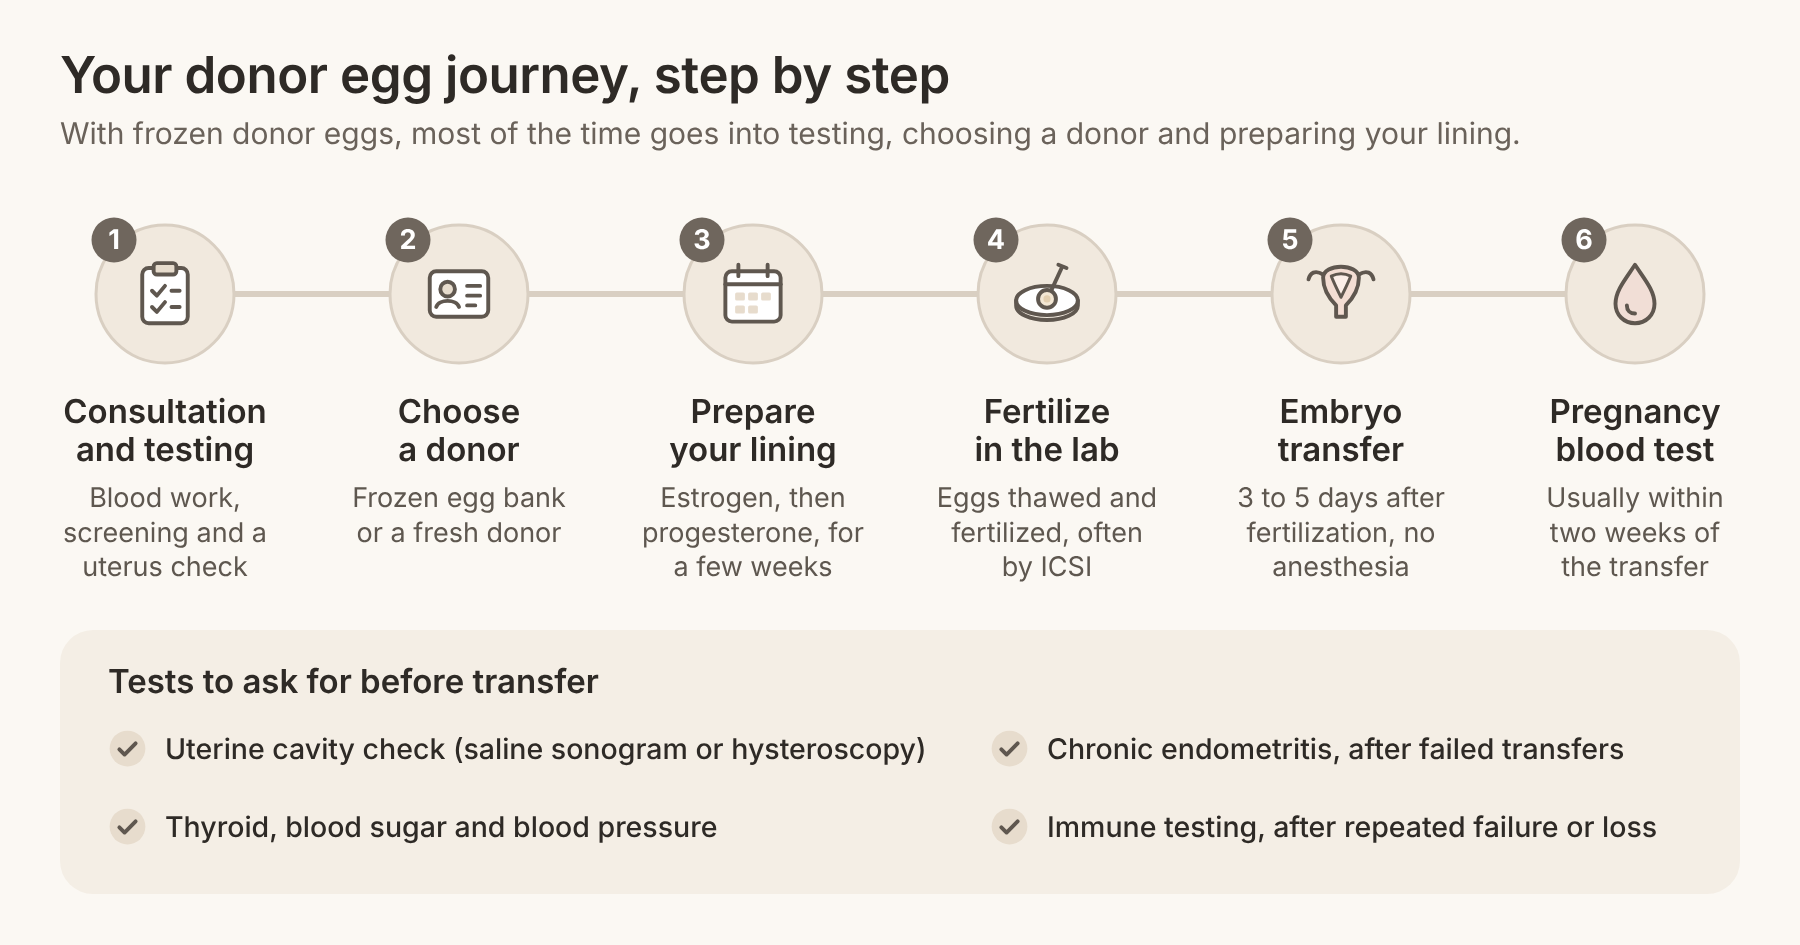
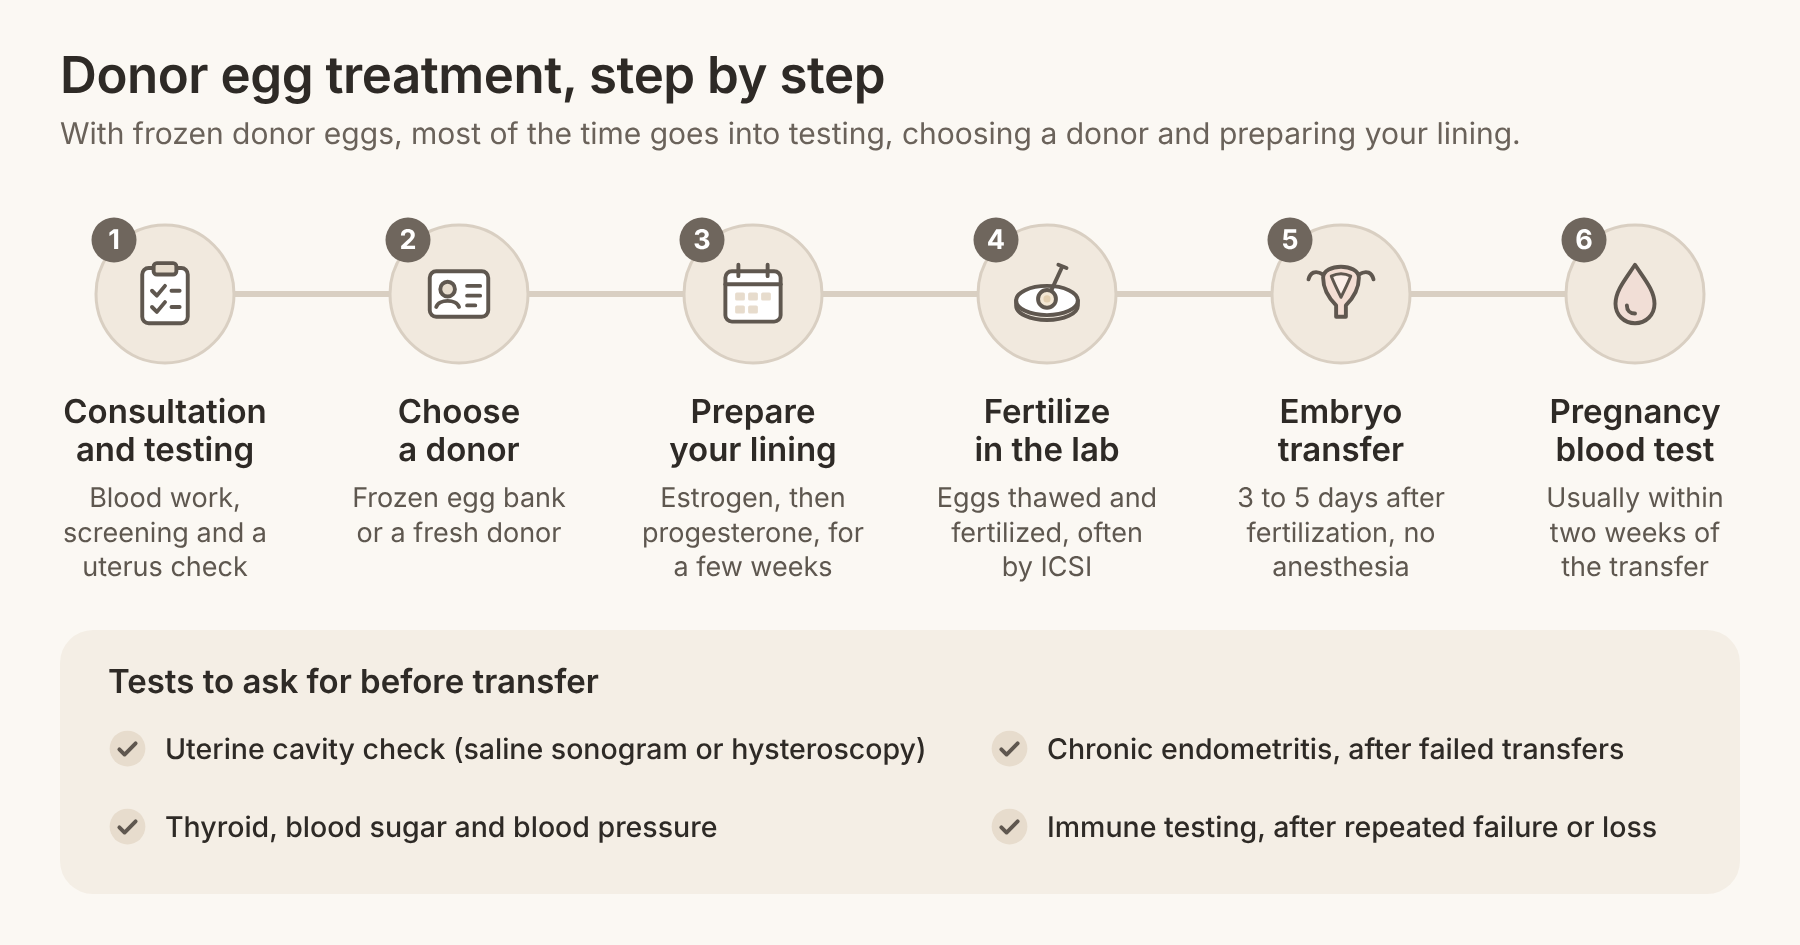
Image text follows the post rules (banned words, numbers from the post); integrity checks for images
Claude-Session: https://claude.ai/code/session_01GCoYMtcmD4ny8iCpaBnXJB

Changed region(s): [[0.0311, 0.0614, 0.5289, 0.1228]]

diff --git a/scripts/render_image.js b/scripts/render_image.js
@@ -72,6 +72,8 @@ let html = fs.readFileSync(input, "utf8")
   if (report.minSize < 17) report.problems.push(`smallest label is ${report.minSize}px; use 17px or more so it stays readable on the blog`);
   const out = { ok: report.problems.length === 0, output, width: Math.round(W * scale), height: Math.round(H * scale),
     bytes: fs.statSync(output).size, labels: report.labels, min_font_px: report.minSize, problems: report.problems };
+  out.md5 = require("crypto").createHash("md5").update(fs.readFileSync(output)).digest("hex");
+  fs.writeFileSync(output.replace(/\.png$/, "") + ".report.json", JSON.stringify(out, null, 1) + "\n");
   console.log(JSON.stringify(out, null, 1));
   process.exit(out.ok ? 0 : 1);
 })();

diff --git a/runs/2026-10-16-aurea/img/image1.html b/runs/2026-10-16-aurea/img/image1.html
@@ -31,7 +31,7 @@
   <circle cx="276" cy="508" r="28" fill="#FBF8F3" stroke="#D9CFC2" stroke-width="1.5"/>
   <use href="#icon-tank" x="256" y="488" width="40" height="40"/>
   <text class="label-sub" x="314" y="503">Liquid nitrogen</text>
-  <text class="label-sub" x="314" y="525">at −196 °C</text>
+  <text class="label-sub" x="314" y="525">storage tank</text>
   <circle cx="474" cy="508" r="28" fill="#FBF8F3" stroke="#D9CFC2" stroke-width="1.5"/>
   <use href="#icon-thaw" x="454" y="488" width="40" height="40"/>
   <text class="label-sub" x="512" y="503">Thawed</text>

diff --git a/runs/2026-10-16-rfc/img/image2.html b/runs/2026-10-16-rfc/img/image2.html
@@ -4,7 +4,7 @@
 {{COMPONENTS}}
 <svg class="canvas" viewBox="0 0 1200 630" xmlns="http://www.w3.org/2000/svg">
   <rect class="bg" width="1200" height="630"/>
-  <text class="title" x="40" y="62">Your donor egg journey, step by step</text>
+  <text class="title" x="40" y="62">Donor egg treatment, step by step</text>
   <text class="subtitle" x="40" y="96">With frozen donor eggs, most of the time goes into testing, choosing a donor and preparing your lining.</text>
 
   <!-- timeline line -->

diff --git a/scripts/check_post.py b/scripts/check_post.py
@@ -6,6 +6,8 @@ Usage: python3 scripts/check_post.py runs/<run>
 Writes runs/<run>/checks.json (the self-audit) and prints a summary.
 Hard failures block publishing. Warnings are reported but do not block.
 """
+import hashlib
+import html
 import json
 import re
 import sys
@@ -170,6 +172,31 @@ def main():
     long_paras = [p[:50] for p in body.split("\n\n") if p.strip() and not p.strip().startswith(("|", "-", "#", "[["))
                   and not re.match(r"\d+[.)]\s", p.strip()) and len(re.findall(r"[.!?](\s|$)", p)) > 5]
     check("paragraphs are 5 sentences or fewer", not long_paras, "; ".join(long_paras), hard=False)
+
+    # ---------- what is inside the images ----------
+    # Images are labelled illustrations rendered from runs/<run>/img/imageN.html (rules/images.md).
+    # Wix's file hash is the md5 of the stored bytes, so it proves Wix holds the exact picture that was reviewed.
+    body_plain = strip_md(body)
+    for k in ("IMAGE1", "IMAGE2"):
+        im = imgs.get(k, {})
+        src, png = run / im.get("source", "-"), run / im.get("file", "-")
+        if not (src.is_file() and png.is_file()):
+            check(f"{k}: source html and rendered png in the run folder", False, f"{im.get('source')} / {im.get('file')}")
+            continue
+        md5 = hashlib.md5(png.read_bytes()).hexdigest()
+        check(f"{k}: Wix stored exactly the reviewed image (md5 = Wix hash)",
+              md5 == im.get("md5") == im.get("wix_hash"), f"file {md5}, front matter {im.get('md5')}, Wix {im.get('wix_hash')}")
+        rep = load_json(png.with_suffix(".report.json"), {})
+        check(f"{k}: label check passed when rendered (no overlaps, nothing cut off)",
+              rep.get("ok") is True and rep.get("md5") == md5, "; ".join(rep.get("problems", [])) or "no report for this file")
+        texts = " ".join(html.unescape(re.sub(r"<[^>]+>", "", t))
+                         for t in re.findall(r"<text\b[^>]*>(.*?)</text>", src.read_text(encoding="utf-8"), re.S))
+        lowt = " " + texts.lower() + " "
+        bad = sorted({w for w in banned if re.search(r"(?<![a-z])" + re.escape(w.lower()) + r"(?![a-z])", lowt)})
+        check(f"{k}: no banned words in the image", not bad, ", ".join(bad))
+        nums = {n for n in re.findall(r"\$?\d[\d,]*(?:\.\d+)?%?", texts) if len(n.strip("$%")) > 1 or n[0] == "$" or n[-1] == "%"}
+        missing = sorted(n for n in nums if n not in body_plain and n not in body)
+        check(f"{k}: every number in the image also appears in the post", not missing, ", ".join(missing))
 
     # ---------- uniqueness ----------
     pub = load_json("data/published.json", {"posts": []})["posts"]

diff --git a/runs/2026-10-16-rfc/post.md b/runs/2026-10-16-rfc/post.md
@@ -12,43 +12,107 @@
  "meta_description": "How the donor eggs procedure works step by step, real success rates, and an honest answer to the question many ask: will the baby feel like mine?",
  "excerpt": "Donor eggs give women over 40 some of the strongest odds in IVF. Here is how the procedure works, what the research shows, and what science says about the bond with your baby.",
  "category": "Treatments & IVF",
- "hashtags": ["donoreggs", "eggdonation", "ivfover40"],
- "primary_keyword": {"term": "donor eggs procedure", "volume": 2900, "sd": 20},
- "secondary_keywords": [
-  {"term": "how does donor eggs work", "volume": 1600, "sd": 30},
-  {"term": "donor eggs success rate", "volume": 260, "sd": 28},
-  {"term": "epigenetics donor eggs", "volume": 170, "sd": 17}
+ "hashtags": [
+  "donoreggs",
+  "eggdonation",
+  "ivfover40"
  ],
- "hero": "IMAGE2",
+ "primary_keyword": {
+  "term": "donor eggs procedure",
+  "volume": 2900,
+  "sd": 20
+ },
+ "secondary_keywords": [
+  {
+   "term": "how does donor eggs work",
+   "volume": 1600,
+   "sd": 30
+  },
+  {
+   "term": "donor eggs success rate",
+   "volume": 260,
+   "sd": 28
+  },
+  {
+   "term": "epigenetics donor eggs",
+   "volume": 170,
+   "sd": 17
+  }
+ ],
+ "hero": "IMAGE1",
  "images": {
   "IMAGE1": {
-   "wix_id": "ca2223_6d0a011f32dc46acb68d2580722f0983~mv2.jpg",
-   "width": 2752,
-   "height": 1536,
-   "alt": "Illustration of an embryo attaching to the uterine lining, the final step of the donor eggs procedure",
+   "wix_id": "ca2223_6fb563a4f3744699b7e29fb5b5377a8d~mv2.png",
+   "width": 1800,
+   "height": 945,
+   "alt": "Labelled illustration of the donor eggs procedure: donor's ovary, ICSI fertilization and embryo transfer to the uterus",
    "kind": "medical illustration",
-   "prompt": "Clean modern medical illustration of a human blastocyst-stage embryo arriving at a thick, healthy uterine lining (endometrium), cross-section view of the endometrial surface with soft glands and blood vessels, the embryo gently attaching. Palette of ivory, warm sand, soft stone grey and muted sage green only, plain ivory background, soft even lighting, minimal editorial vector style, high detail, accurate anatomy. No text, no labels, no letters, no numbers, no logos, no watermark.",
-   "wix_labels": ["biomedical illustration", "human cell", "cell structure", "human embryo", "embryo", "explanatory illustration"]
+   "source": "img/image1.html",
+   "file": "img/image1.png",
+   "md5": "87c3d4525ffc34d9895eb31c705ec92a",
+   "wix_hash": "87c3d4525ffc34d9895eb31c705ec92a",
+   "wix_labels": [
+    "biological process",
+    "eggs",
+    "egg",
+    "procedure",
+    "surrogacy"
+   ],
+   "preview_src": "img/image1.png"
   },
   "IMAGE2": {
-   "wix_id": "ca2223_ab1fed578caa44179747bc9038175322~mv2.jpg",
-   "width": 2752,
-   "height": 1536,
-   "alt": "Couple talking with a fertility nurse in a calm consultation room about how donor eggs work",
-   "kind": "editorial scene",
-   "prompt": "Soft editorial photograph of a woman in her mid-40s and her partner sitting together in a calm, modern fertility clinic consultation room, talking with a female nurse who holds a tablet, warm natural window light, relaxed hopeful expressions, modest clothing, diverse adults. Palette of ivory, warm sand, soft stone grey and muted sage green, uncluttered background with a plant. No text, no screens with writing, no logos, no watermark, no children.",
-   "wix_labels": ["ask patient detailed questions", "counselling session", "consulting room", "meeting with partners", "in-home nursing care"]
+   "wix_id": "ca2223_c89002a7c0884946bc12cf03129208a1~mv2.png",
+   "width": 1800,
+   "height": 945,
+   "alt": "Timeline of how donor eggs work, from consultation and choosing a donor to embryo transfer and pregnancy test",
+   "kind": "labelled timeline",
+   "source": "img/image2.html",
+   "file": "img/image2.png",
+   "md5": "29a715a9d3c7a44cc723386c084767e0",
+   "wix_hash": "29a715a9d3c7a44cc723386c084767e0",
+   "wix_labels": [
+    "candidate journey",
+    "medical procedure",
+    "procedures"
+   ],
+   "preview_src": "img/image2.png"
   }
  },
  "citations": [
-  {"url": "https://www.reproductivefacts.org/news-and-publications/fact-sheets-and-infographics/egg-donation/"},
-  {"url": "https://pmc.ncbi.nlm.nih.gov/articles/PMC12087671/"},
-  {"url": "https://pmc.ncbi.nlm.nih.gov/articles/PMC10958684"},
-  {"url": "https://pmc.ncbi.nlm.nih.gov/articles/PMC5844654/"},
-  {"url": "https://pmc.ncbi.nlm.nih.gov/articles/PMC10224887/"}
+  {
+   "url": "https://www.reproductivefacts.org/news-and-publications/fact-sheets-and-infographics/egg-donation/"
+  },
+  {
+   "url": "https://pmc.ncbi.nlm.nih.gov/articles/PMC12087671/"
+  },
+  {
+   "url": "https://pmc.ncbi.nlm.nih.gov/articles/PMC10958684"
+  },
+  {
+   "url": "https://pmc.ncbi.nlm.nih.gov/articles/PMC5844654/"
+  },
+  {
+   "url": "https://pmc.ncbi.nlm.nih.gov/articles/PMC10224887/"
+  }
  ],
  "serp_gap": "Top results explain the medical steps but none answer the question patients ask most: will the baby feel like mine, and does my body shape the baby at all?",
- "patient_phrases": ["Will the baby feel like mine?", "grieving the genetic connection", "hugely complicated news to process"]
+ "patient_phrases": [
+  "Will the baby feel like mine?",
+  "grieving the genetic connection",
+  "hugely complicated news to process"
+ ],
+ "replaced_images": {
+  "IMAGE1": {
+   "wix_id": "ca2223_6d0a011f32dc46acb68d2580722f0983~mv2.jpg",
+   "alt": "Illustration of an embryo attaching to the uterine lining, the final step of the donor eggs procedure",
+   "why": "Gamma images without labels; replaced 2026-10-16 at Alifiya's request with labelled illustrations"
+  },
+  "IMAGE2": {
+   "wix_id": "ca2223_ab1fed578caa44179747bc9038175322~mv2.jpg",
+   "alt": "Couple talking with a fertility nurse in a calm consultation room about how donor eggs work",
+   "why": "Gamma images without labels; replaced 2026-10-16 at Alifiya's request with labelled illustrations"
+  }
+ }
 }
 ---
 **Quick answer:** The **donor eggs procedure** gives you a real path to pregnancy when your own eggs are not cooperating. Eggs from a young, screened donor are fertilized in the lab, and the best embryo is placed in your uterus after a few weeks of hormone preparation. Because success follows the **donor's age rather than yours**, it works well for women in their 40s and 50s. You carry the pregnancy, you give birth, and you are your baby's mother.

diff --git a/runs/2026-10-16-aurea/post.md b/runs/2026-10-16-aurea/post.md
@@ -39,39 +39,43 @@
    "sd": 23
   }
  ],
- "hero": "IMAGE2",
+ "hero": "IMAGE1",
  "images": {
   "IMAGE1": {
-   "wix_id": "ca2223_1c98094416f74ad3a0f63e14b80f6cf5~mv2.jpg",
-   "width": 2752,
-   "height": 1536,
-   "alt": "Microscope-style illustration of sperm cells with frost crystals at the edge, showing sperm freezing",
-   "kind": "medical illustration",
-   "prompt": "Scientific medical illustration in the style of a microscope view: many human spermatozoa swimming across a soft circular field of view, each with a small oval head, a short midpiece and a long, thin, whip-like tail, clearly microscopic cells, a few faint frost crystals at the edge of the circle to suggest freezing. Palette of ivory, champagne, warm taupe and soft lilac grey only, plain ivory background around the circle, soft even lighting, clean minimal editorial style, high detail, accurate cell anatomy. No text, no labels, no letters, no numbers, no scale bars, no logos, no watermark.",
+   "wix_id": "ca2223_ff2c952b2b29455b801a9b6346dff481~mv2.png",
+   "width": 1800,
+   "height": 945,
+   "alt": "Labelled sperm cell diagram and chart showing sperm freezing lowers motility once, while storage time does not",
+   "kind": "medical illustration with data",
+   "source": "img/image1.html",
+   "file": "img/image1.png",
+   "md5": "90b5af5a596da369dd3432d0422f5c87",
+   "wix_hash": "90b5af5a596da369dd3432d0422f5c87",
    "wix_labels": [
-    "scientific micrograph",
-    "biomedical illustration",
-    "human cell",
-    "microorganism",
-    "petri dish"
+    "dna testing",
+    "human fertility",
+    "infographics",
+    "data processing"
    ],
-   "retries": 1,
-   "rejected": "first attempt (droplet illustration) got labels like spoons, flatware, legumes, so it may not read as sperm; regenerated"
+   "preview_src": "img/image1.png"
   },
   "IMAGE2": {
-   "wix_id": "ca2223_a3306cf12dcb46fc8002d2fbcf4c6b33~mv2.jpg",
-   "width": 2752,
-   "height": 1536,
-   "alt": "Man talking with a fertility doctor in a calm clinic room about sperm freezing cost and storage",
-   "kind": "editorial scene",
-   "prompt": "Soft editorial photograph of a man in his early 30s sitting in a calm, modern fertility clinic consultation room, talking with a female physician in a white coat across a light wood desk, warm natural window light, relaxed and reassured expressions, modest clothing, diverse adults. Palette of ivory, champagne, warm taupe and soft lilac grey, uncluttered background with a plant. No text, no paperwork with writing, no screens, no logos, no watermark, no children.",
+   "wix_id": "ca2223_3474454e0c93488fae86d518243f6a8c~mv2.png",
+   "width": 1800,
+   "height": 945,
+   "alt": "Sperm freezing cost at Aurea step by step: nurse call, semen analysis, freezing, storage and thaw, with 10-year total",
+   "kind": "labelled cost diagram",
+   "source": "img/image2.html",
+   "file": "img/image2.png",
+   "md5": "6160b5cd34dc969bbdc9a62612c0fd4f",
+   "wix_hash": "6160b5cd34dc969bbdc9a62612c0fd4f",
    "wix_labels": [
-    "consultation room",
-    "consultation",
-    "counseling",
-    "ask patient detailed questions",
-    "prenatal care"
-   ]
+    "fees",
+    "pricing",
+    "medical expenses",
+    "monetary"
+   ],
+   "preview_src": "img/image2.png"
   }
  },
  "citations": [
@@ -99,7 +103,19 @@
   "Why is freezing sperm so expensive?",
   "There is an up front fee and then monthly payments to keep it?",
   "it would be worth your time to do this"
- ]
+ ],
+ "replaced_images": {
+  "IMAGE1": {
+   "wix_id": "ca2223_1c98094416f74ad3a0f63e14b80f6cf5~mv2.jpg",
+   "alt": "Microscope-style illustration of sperm cells with frost crystals at the edge, showing sperm freezing",
+   "why": "Gamma images without labels; replaced 2026-10-16 at Alifiya's request with labelled illustrations"
+  },
+  "IMAGE2": {
+   "wix_id": "ca2223_a3306cf12dcb46fc8002d2fbcf4c6b33~mv2.jpg",
+   "alt": "Man talking with a fertility doctor in a calm clinic room about sperm freezing cost and storage",
+   "why": "Gamma images without labels; replaced 2026-10-16 at Alifiya's request with labelled illustrations"
+  }
+ }
 }
 ---
 **Quick answer:** At Aurea Fertility Center, sperm freezing costs **$650 in the office**, and storage costs **$425 a year** (or $50 a month). That puts the first-year sperm freezing cost at about $1,075, and a full 10 years of storage at about $4,900 before you use the sample. The freezing fee is a one-time cost; storage is the number that grows, so it is worth planning for from day one.
